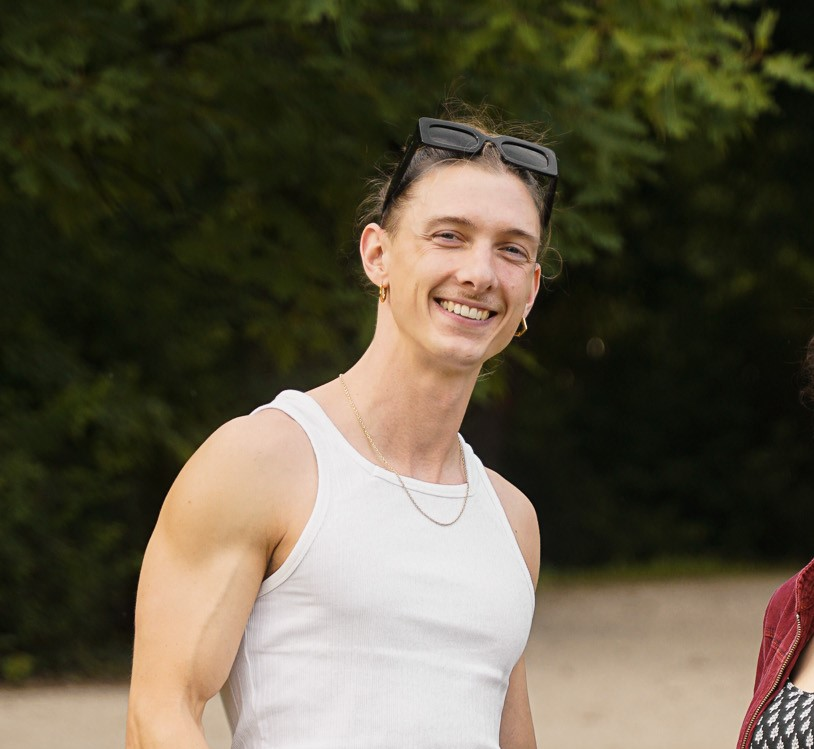
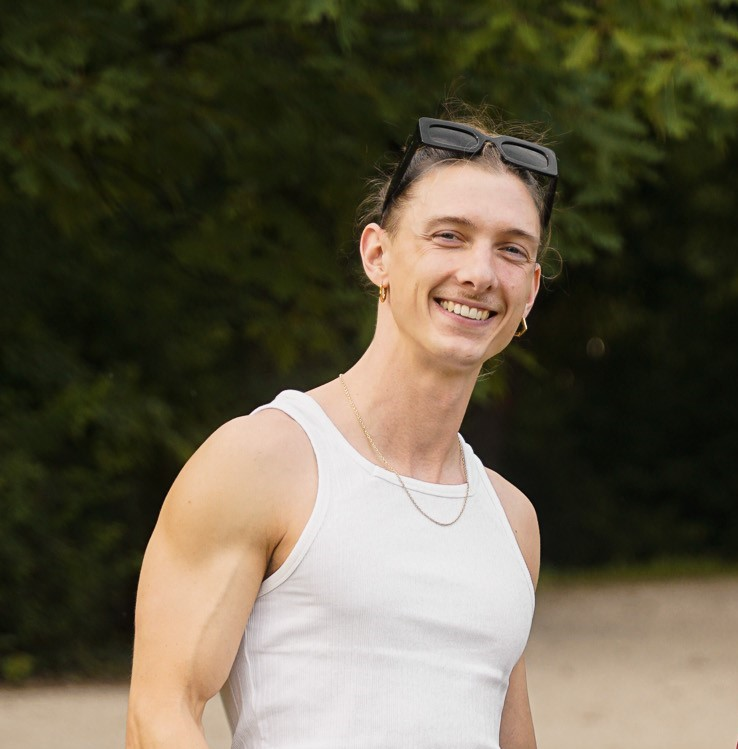
SEO meta tagek, testimonial frissítések, képcsere, árkorrekció
- Description és OG meta tagek hozzáadva
- Miklós testimonial berakva Barbi helyére
- Eredmény szövegek kiemelése félkövérrel
- levi.JPG frissítve (kivágott verzió), profil.PNG eltávolítva
- Árak: 149.000 → 150.000, 299.000 → 300.000 Ft
- "Hat különböző tünet" subtitle eltávolítva
- Logo fájlok hozzáadva

diff --git a/index.html b/index.html
@@ -4,6 +4,11 @@
     <meta charset="UTF-8">
     <meta name="viewport" content="width=device-width, initial-scale=1.0">
     <title>TestKözéppont — 90 napos derékfájás megoldás | Budapest</title>
+    <meta name="description" content="Krónikus derékfájással küzdesz és már mindent próbáltál? Farkas Levente mozgásterapeuta medence-centrikus módszere, Budapesten.">
+    <meta property="og:title" content="TestKözéppont — 90 napos derékfájás megoldás | Budapest">
+    <meta property="og:description" content="Krónikus derékfájással küzdesz és már mindent próbáltál? Farkas Levente mozgásterapeuta medence-centrikus módszere, Budapesten.">
+    <meta property="og:type" content="website">
+    <meta property="og:url" content="https://testkozeppont.hu">
     <link rel="preconnect" href="https://fonts.googleapis.com">
     <link rel="preconnect" href="https://fonts.gstatic.com" crossorigin>
     <link href="https://fonts.googleapis.com/css2?family=Playfair+Display:ital,wght@0,400;0,700;1,400;1,700&family=Inter:wght@300;400;500;600&display=swap" rel="stylesheet">
@@ -360,7 +365,7 @@
             color: var(--accent-light); margin-bottom: 0.4rem;
         }
         .testimonial-result p {
-            font-size: 0.83rem; color: var(--text-muted); line-height: 1.6; font-weight: 300;
+            font-size: 0.95rem; color: var(--text-muted); line-height: 1.6; font-weight: 400;
         }
         .testimonial-author {
             display: flex; align-items: center; gap: 0.75rem;
@@ -755,7 +760,7 @@
     <div class="section-header">
         <div class="section-eyebrow">A Probléma</div>
         <h2 class="section-heading">Ismerős valamelyik?</h2>
-        <p class="section-sub">Hat különböző tünet — egy forrás.</p>
+
     </div>
     <div class="pain-grid">
         <div class="pain-card">
@@ -877,7 +882,7 @@
     <div class="story-inner">
         <div class="story-left">
             <div class="story-avatar">
-                <img src="profil.PNG" alt="Levi">
+                <img src="levi.JPG" alt="Levi">
             </div>
             <h3>Levi</h3>
             <p>Mozgásterapeuta, Budapest<br>TestKözéppont Módszer</p>
@@ -916,7 +921,7 @@
             <blockquote>"Kicsi korom óta gerincferdüléssel küzdök. Voltam gyógytornán, masszőrnél — futószalagon kezeltek, általánosságokat mondtak. Levitől olyat kaptam, amit azelőtt sehol: részletes elemzést arról, mi történik pontosan az én testemben, és miért. Nehéz volt szembesülni azzal, amit a tükörben láttam — de mivel mindenhez érthető magyarázatot kaptam, összességében felszabadító élmény volt."</blockquote>
             <div class="testimonial-result">
                 <div class="testimonial-result-label">Eredmény</div>
-                <p>A derékfájdalom elmúlt. A térdfájás crossfit edzéseken azóta sem jött elő. Sokkal tudatosabban odafigyelek a hétköznapokban a testtartásomra — ami a program előtt egyáltalán nem volt jellemző.</p>
+                <p><strong>A derékfájdalom elmúlt. A térdfájás crossfit edzéseken azóta sem jött elő.</strong> Sokkal tudatosabban odafigyelek a hétköznapokban a testtartásomra — ami a program előtt egyáltalán nem volt jellemző.</p>
             </div>
             <div class="testimonial-author">
                 <div class="testimonial-avatar"><img src="anna.png" alt="Asztalos Anna"></div>
@@ -935,7 +940,7 @@
             <blockquote>"Nem figyeltem, hogyan emeltem nehéz dolgokat — utána egész nap nyomásváltozásra erősödő fájdalmam volt. Levi megmutatta, melyik oldalamat kell erősíteni — pont az ellentéteset gondoltam volna magamtól. Rendszert rakott a mindennapjaimba. Könnyebben kezdek bele az edzésbe, ha előtte végigcsinálom a tornát."</blockquote>
             <div class="testimonial-result">
                 <div class="testimonial-result-label">Eredmény</div>
-                <p>Erősebb hátizmok, kevesebbszer jönnek elő a sérves tünetek. Kerülöm a rossz tartású nehéz emeléseket — és tudom miért. Súlyemelkedés látható változás nélkül — teszem fel a mélyizmok épülése miatt.</p>
+                <p>Erősebb hátizmok, kevesebbszer jönnek elő a sérves tünetek. <strong>Kerülöm a rossz tartású nehéz emeléseket — és tudom miért.</strong> Súlyemelkedés látható változás nélkül — teszem fel a mélyizmok épülése miatt.</p>
             </div>
             <div class="testimonial-author">
                 <div class="testimonial-avatar">KAR</div>
@@ -947,20 +952,20 @@
         </div>
 
         <div class="testimonial-card">
-            <div class="testimonial-tag">Tartásproblémák · Testtudatosság · Személyre szabott</div>
+            <div class="testimonial-tag">Vállmobilitás · Sport · Ülőmunka</div>
             <div class="testimonial-stars">
                 <i class="fa-solid fa-star"></i><i class="fa-solid fa-star"></i><i class="fa-solid fa-star"></i><i class="fa-solid fa-star"></i><i class="fa-solid fa-star"></i>
             </div>
-            <blockquote>"Tartásproblémám volt — de nem annyira zavaró, hogy aktívan csináljak valamit ellene. Két héttel az edzésterv után már éreztem, hogy addig ismeretlen izmok kezdtek el dolgozni. Teljesen személyre szabott volt az egész: nem általános edzés, hanem pontosan rólam szóló program. Egyszerű és mégis nagyon látványos. Könnyen megértettem mi a probléma, és pontosan éreztem mi változik."</blockquote>
+            <blockquote>"Több mint egy éve volt már vállproblémám. Nyújtottam, tornáztam — de hosszabb távon sosem csináltam következetesen végig. Levinél, az első héten éreztem, hogy ez valami más. Gyors, látványos fejlődés, és végre értem, hogy mi miért történik. Aztán bevallom — megint elvesztettem a ritmust. De ami megmaradt: tudom, mi a forrása, és tudom, mi a megoldás, ha tényleg végigcsinálom."</blockquote>
             <div class="testimonial-result">
                 <div class="testimonial-result-label">Eredmény</div>
-                <p>Erősebb hátizom, fejlettebb bal oldal. Aktiválódott egy izomcsoport, amelynek a létezéséről fogalmam sem volt. Testtudatosabb lettem — nem csak kívülről látom a változásokat, hanem sokkal jobban érzem is a saját testemet.</p>
+                <p><strong>Húzódzkodás visszatért. Kar fej fölé emelhető fájdalom nélkül.</strong> A korai fejlődés gyors volt — a folytatás rajtam múlt.</p>
             </div>
             <div class="testimonial-author">
-                <div class="testimonial-avatar">Ba</div>
+                <div class="testimonial-avatar">Mi</div>
                 <div>
-                    <div class="testimonial-name">Barbara</div>
-                    <div class="testimonial-role">Cukrász</div>
+                    <div class="testimonial-name">Miklós</div>
+                    <div class="testimonial-role">Operations Lead</div>
                 </div>
             </div>
         </div>
@@ -973,7 +978,7 @@
             <blockquote>"Fogorvosként egész nap állva dolgozom — több mint egy éve fájt a derekam. Próbáltam súlyzós edzéssel, nyújtással megoldani a problémáimat, de nem hoztak tartós megoldást. Levivel az első perctől pontosan érthettem, mi történik az én testemben. Nem általánosságokat mondott — megmutatta, honnan erednek a fájdalmak, miért alakultak ki, és mi tartja fenn őket. 3–4 hétre a kezdéstől már éreztem az első valódi változásokat."</blockquote>
             <div class="testimonial-result">
                 <div class="testimonial-result-label">Eredmény</div>
-                <p>Súlyzós guggolásnál nincs derékfájdalom. Napközben tudatosan figyelek a tartásomra — kevésbé görnyedek be. A legnagyobb nyereség: sokkal szebb tartásom van, és tudom, hogyan tartsam meg.</p>
+                <p><strong>Súlyzós guggolásnál nincs derékfájdalom. Napközben kevésbé görnyedek be.</strong> A legnagyobb nyereség: sokkal szebb tartásom van, és tudom, hogyan tartsam meg.</p>
             </div>
             <div class="testimonial-author">
                 <div class="testimonial-avatar">BZs</div>
@@ -998,8 +1003,8 @@
 
         <div class="pricing-card">
             <div class="pricing-name">Solo Reset</div>
-            <div class="pricing-tagline">Önállóknak, akikben megvan a drive</div>
-            <div class="pricing-price">149 000 <span>Ft</span></div>
+            <div class="pricing-tagline">Önállóknak, akikben megvan a kellő motiváltság</div>
+            <div class="pricing-price">150 000 <span>Ft</span></div>
             <div class="pricing-sessions">3 személyes alkalom · 90 nap</div>
             <div class="pricing-divider"></div>
             <ul class="pricing-features">
@@ -1016,7 +1021,7 @@
             <div class="featured-badge">Ajánlott</div>
             <div class="pricing-name">Guided Reset</div>
             <div class="pricing-tagline">Heti kísérés, folyamatos haladás</div>
-            <div class="pricing-price">299 000 <span>Ft</span></div>
+            <div class="pricing-price">300 000 <span>Ft</span></div>
             <div class="pricing-sessions">12 személyes alkalom · 90 nap</div>
             <div class="pricing-divider"></div>
             <ul class="pricing-features">
@@ -1024,7 +1029,7 @@
                 <li><i class="fa-solid fa-check"></i> Heti 1 személyes alkalom</li>
                 <li><i class="fa-solid fa-check"></i> Folyamatos technikai korrekció</li>
                 <li><i class="fa-solid fa-check"></i> Azonnali reagálás, ha elakadsz</li>
-                <li><i class="fa-solid fa-check"></i> Külső motiváció és accountability</li>
+                <li><i class="fa-solid fa-check"></i> Külső motiváció és rendszeres visszajelzés</li>
             </ul>
             <a href="#konzultacio" class="pricing-cta">Konzultáció foglalása</a>
         </div>
@@ -1128,7 +1133,7 @@
 <!-- FOOTER -->
 <div class="about-strip">
     <div class="about-avatar">
-        <img src="profil.PNG" alt="Levi">
+        <img src="levi.JPG" alt="Levi">
     </div>
     <div class="about-text">
         <h3>Levi — TestKözéppont, Budapest</h3>

diff --git a/logo-export.html b/logo-export.html
@@ -1,0 +1,16 @@
+<!DOCTYPE html>
+<html>
+<head>
+<meta charset="UTF-8">
+<link href="https://fonts.googleapis.com/css2?family=Playfair+Display:wght@700&display=swap" rel="stylesheet">
+<style>
+  * { margin: 0; padding: 0; box-sizing: border-box; }
+  body { background: white; display: inline-block; padding: 60px 80px; }
+  .logo { font-family: 'Playfair Display', Georgia, serif; font-size: 96px; font-weight: 700; white-space: nowrap; }
+  .logo span { color: #C4956A; }
+</style>
+</head>
+<body>
+  <div class="logo">TestKözép<span>pont</span></div>
+</body>
+</html>
